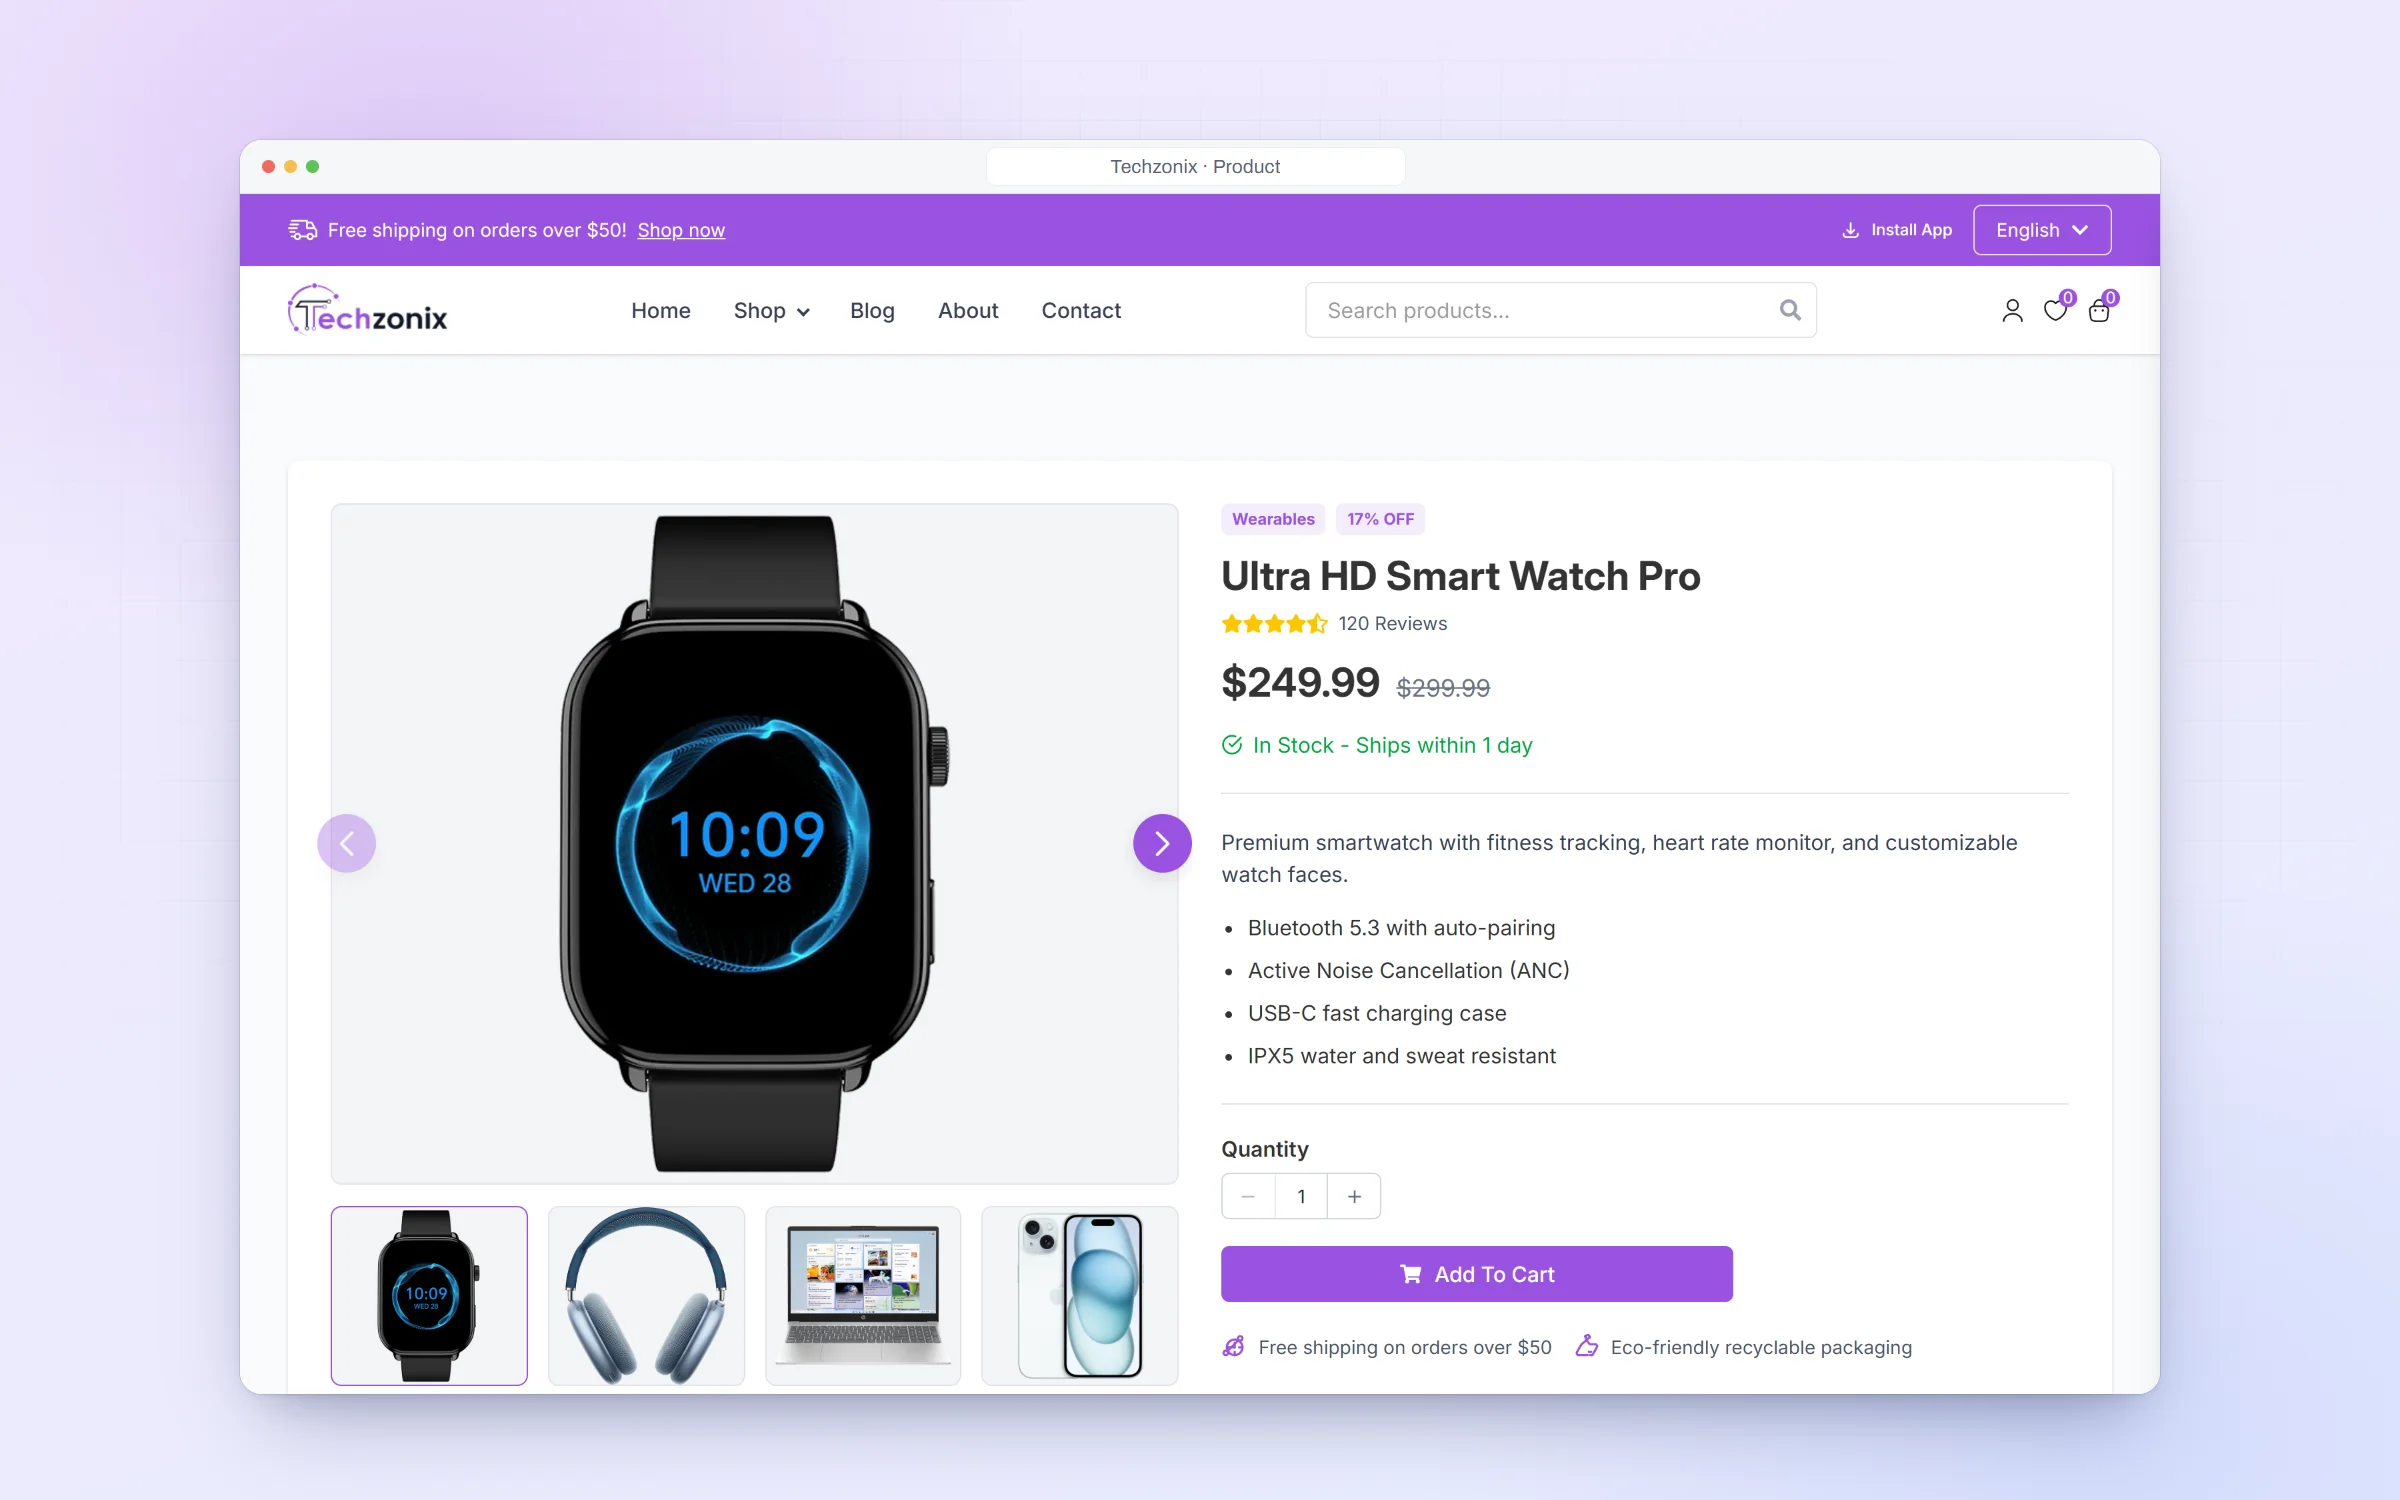
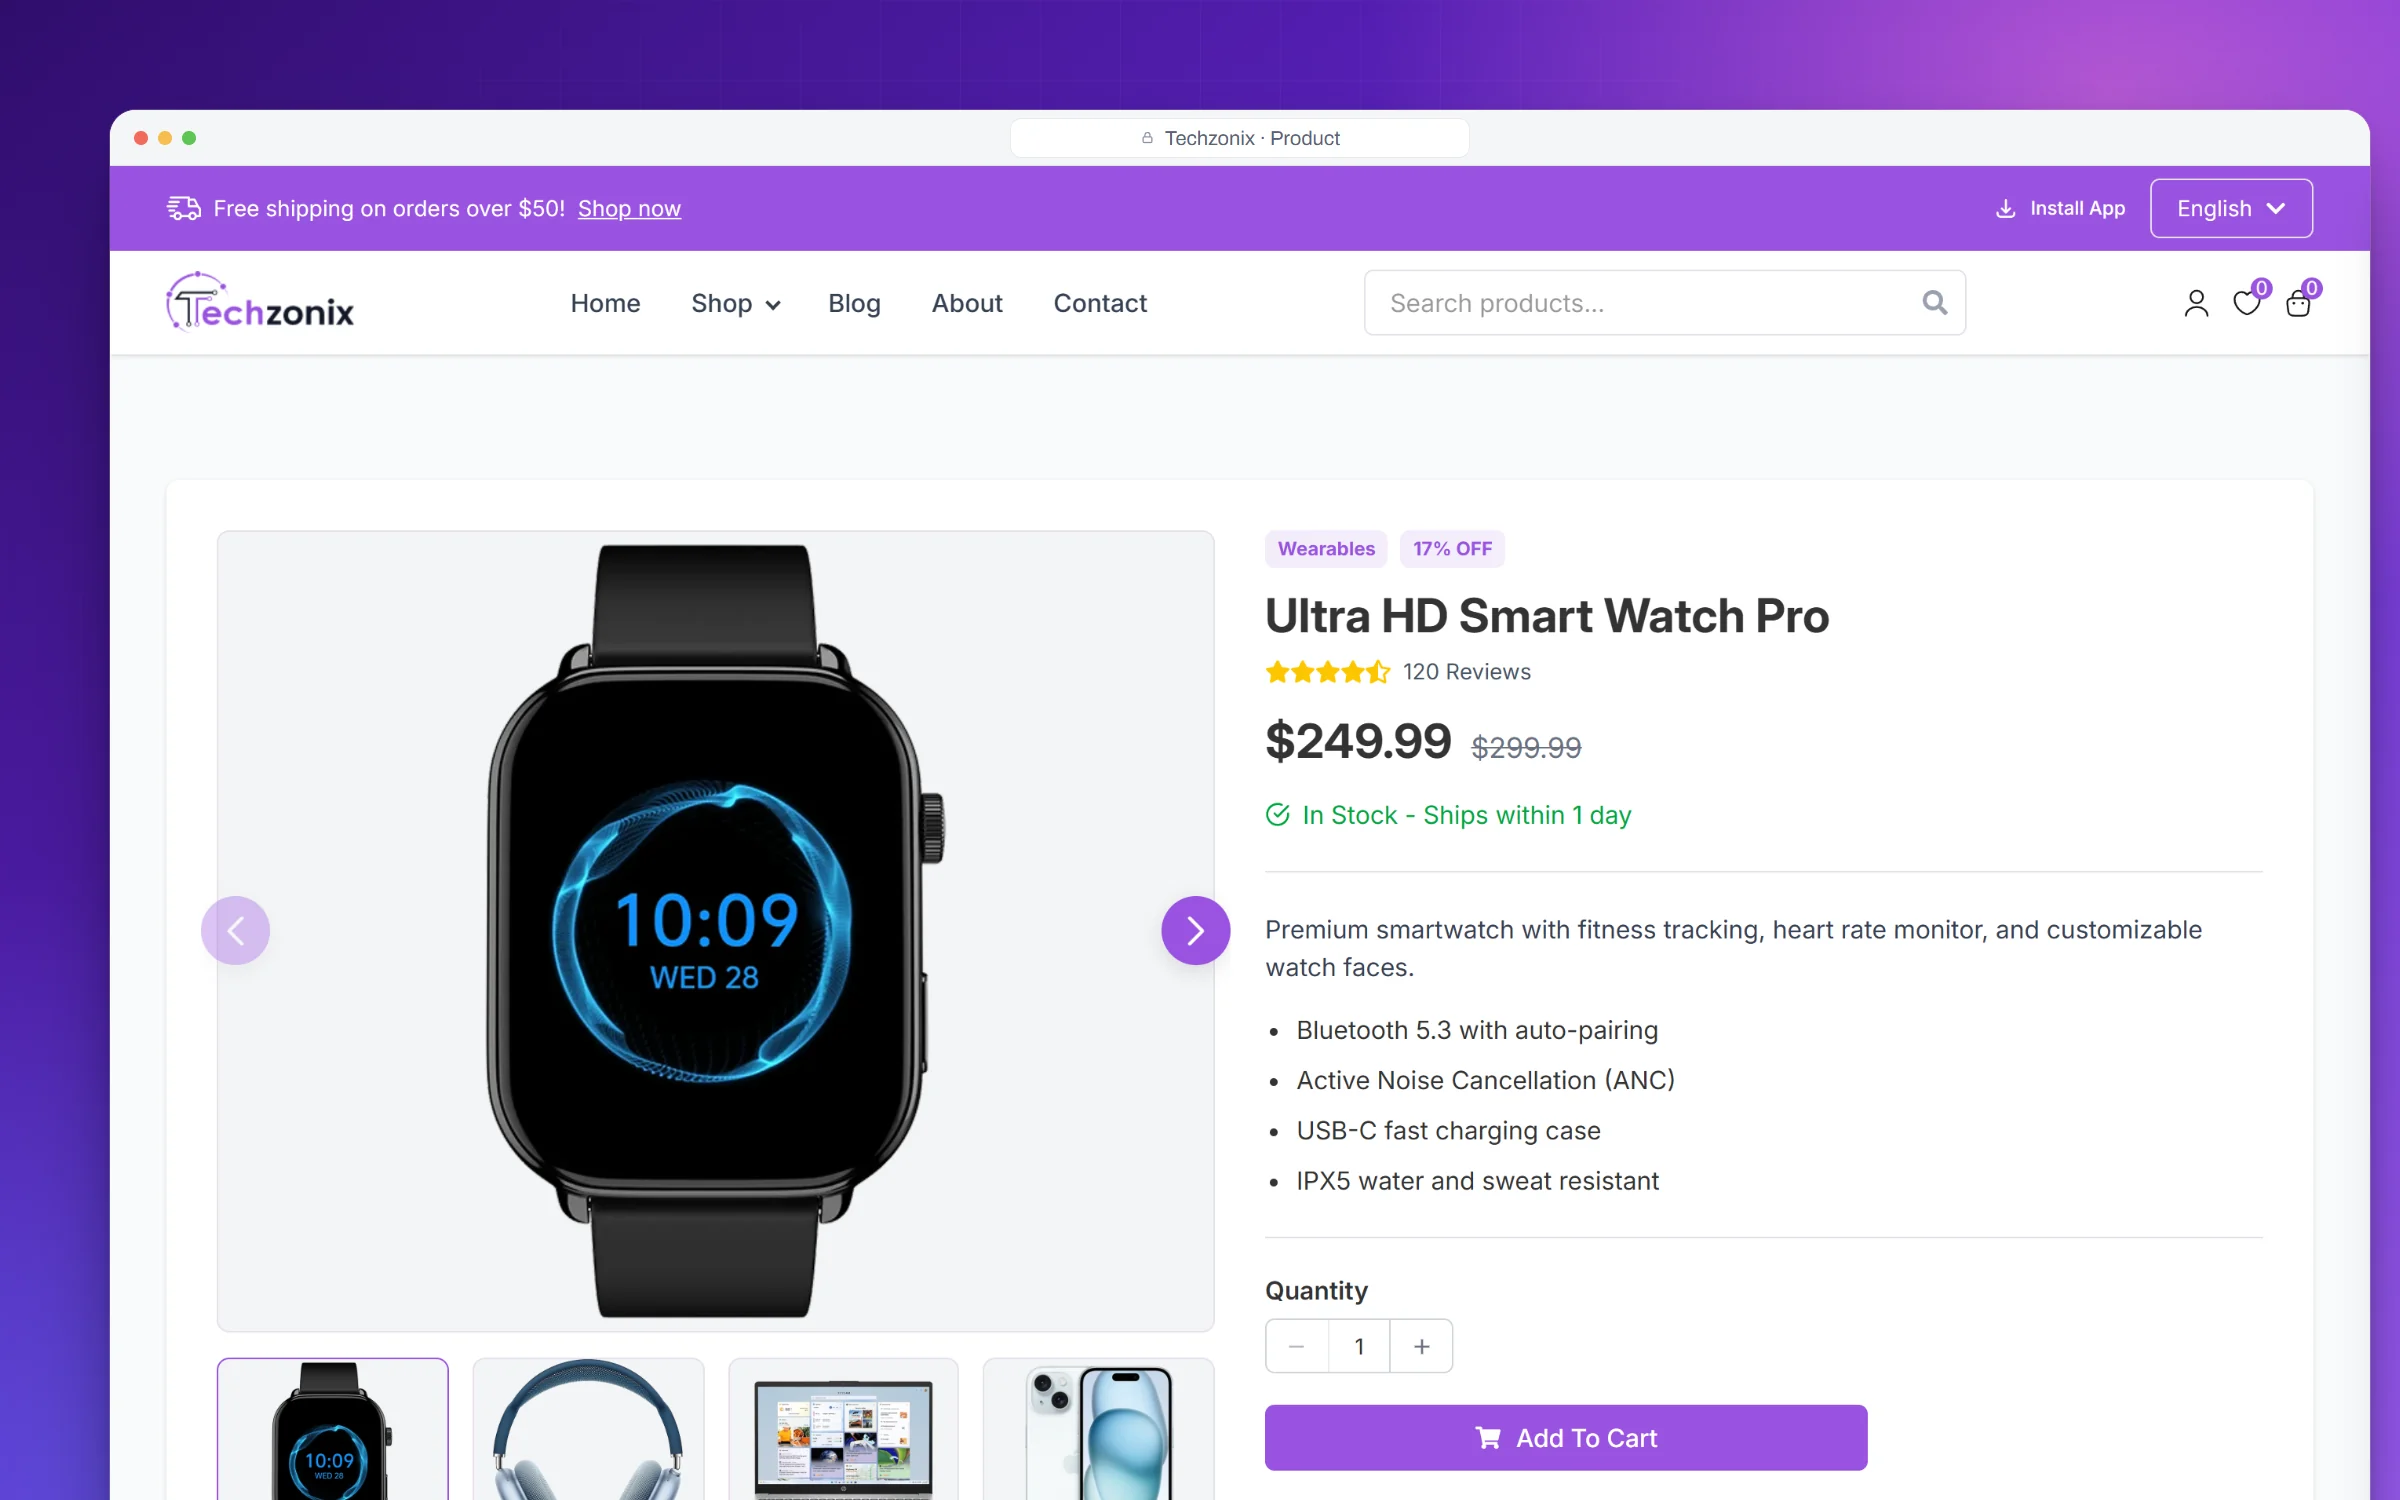
Redo the project images
Screens now fill about 90% of each image and run off the edge, phones
are larger, and each project has a bold background in its own colours.
Alt text, the case study share images and the README screenshots are
updated to match.

diff --git a/src/content/projects.ts b/src/content/projects.ts
@@ -115,7 +115,7 @@ export const caseStudies: CaseStudy[] = [
     layers: ["interface", "api", "auth", "data", "ai"],
     cover: {
       src: waypointCover,
-      alt: "WayPoint’s agency dashboard with revenue and booking charts, shown beside the mobile package page and the AI Trip Studio header.",
+      alt: "WayPoint’s agency dashboard with revenue totals and the monthly revenue chart, beside the Kashmir Valley & Gulmarg package page on a phone.",
     },
     scope: [
       { value: "4", label: "user roles, each with its own dashboard" },
@@ -200,7 +200,7 @@ export const caseStudies: CaseStudy[] = [
         ],
         image: {
           src: waypointTripBuilder,
-          alt: "The AI Trip Studio: a six-step progress bar, a trip passport summary, and featured destinations to add.",
+          alt: "The AI Trip Studio on a phone and a desktop screen: a six-step progress bar, a trip passport summary, and featured destinations to add.",
         },
       },
       {
@@ -493,7 +493,7 @@ export function canTransitionBooking(from: BookingStatus, to: BookingStatus) {
         ],
         image: {
           src: petcareAdoption,
-          alt: "The adoptable pets page with search, gender and size filters, and pet type buttons.",
+          alt: "The adoptable pets page on a phone and a desktop screen, with search, gender and size filters, and pet type buttons.",
         },
       },
       {
@@ -672,7 +672,7 @@ export function canTransitionBooking(from: BookingStatus, to: BookingStatus) {
     layers: ["interface", "api", "auth", "data", "ai"],
     cover: {
       src: rezumelyCover,
-      alt: "Rezumely’s customize step with eight resume templates and a live preview, beside the mobile templates page and the AI tools panel.",
+      alt: "Rezumely’s customize step with eight resume templates and a live preview, beside the templates page on a phone.",
     },
     scope: [
       { value: "8", label: "resume templates" },
@@ -717,7 +717,7 @@ export function canTransitionBooking(from: BookingStatus, to: BookingStatus) {
         ],
         image: {
           src: rezumelyEditor,
-          alt: "The Rezumely editor: section navigation, the personal information form, and a live preview of a two-column resume.",
+          alt: "The Rezumely editor: section navigation, the personal information form, and a live preview of a two-column resume, shown enlarged.",
         },
       },
       {
@@ -733,7 +733,7 @@ export function canTransitionBooking(from: BookingStatus, to: BookingStatus) {
         ],
         image: {
           src: rezumelyAiTools,
-          alt: "The AI-Powered Tools step showing an ATS score of 95, the job matcher, and the cover letter generator.",
+          alt: "The AI-Powered Tools step with the job matcher and the cover letter generator, and its ATS score of 95 shown enlarged.",
         },
       },
       {
@@ -881,7 +881,7 @@ export const exportToPDF = async (element, filename, settings, onProgress) => {`
     layers: ["interface"],
     cover: {
       src: techzonixCover,
-      alt: "The Techzonix product catalog with filters on a desktop screen, beside the mobile home page and a product price card.",
+      alt: "The Techzonix home page with its earbuds banner on a desktop screen, beside the same page on a phone.",
     },
     scope: [
       { value: "23", label: "routes" },
